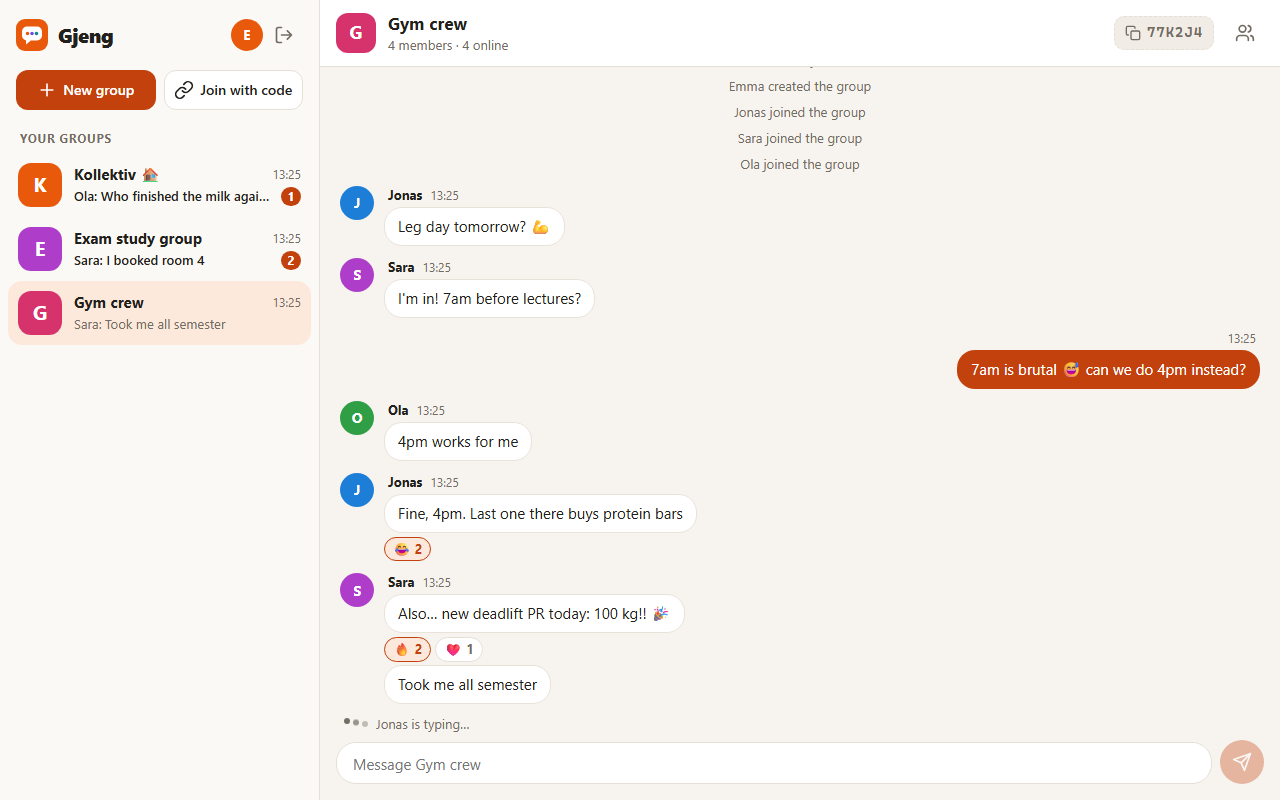
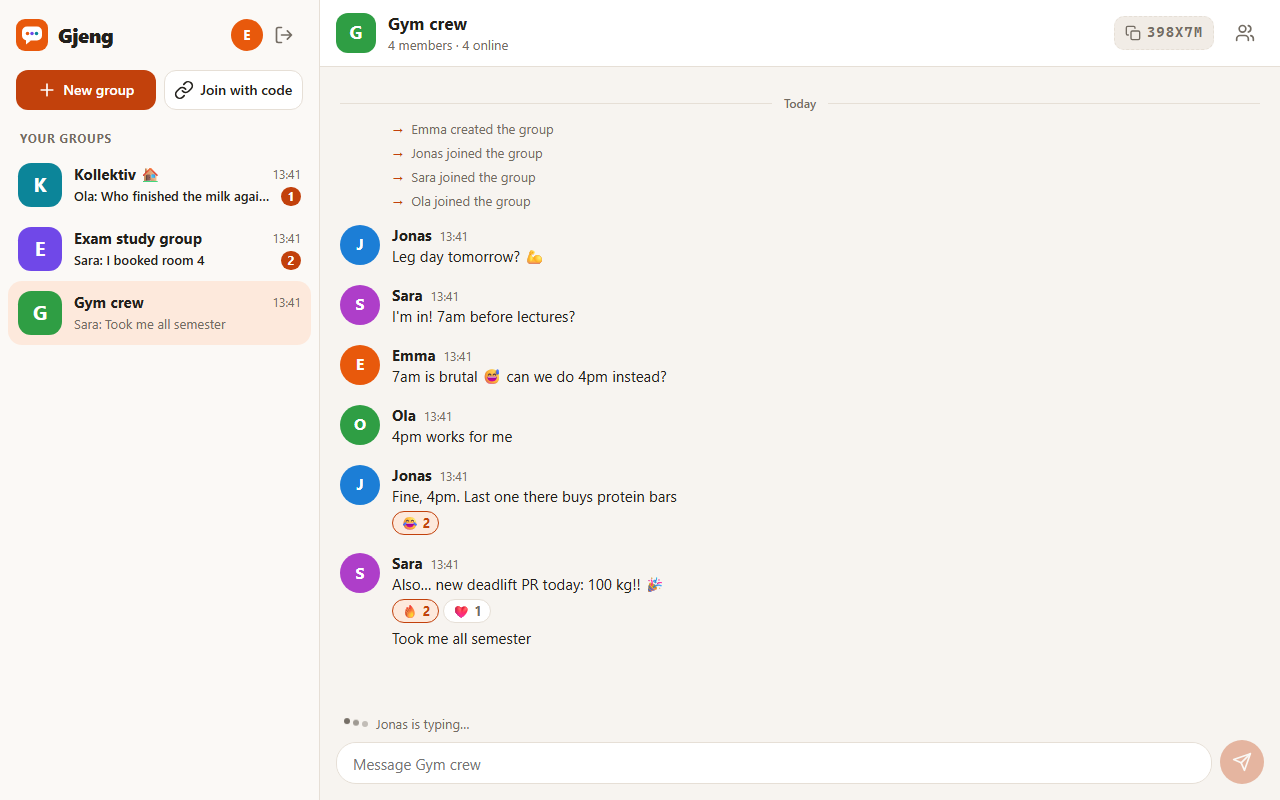
Show all messages on the left with picture, name and time
Messages used phone-style bubbles with your own on the right in orange.
Everyone's messages now sit on the left like Discord/Slack, and your own
show your name instead of "You" (also in the group list preview and
reaction tooltips). Follow-up messages are grouped under one name and
show their time on hover. Adds a browser test for the name change.

diff --git a/client/src/styles.css b/client/src/styles.css
@@ -14,8 +14,6 @@
   --accent-hover: #a8380a;
   --accent-soft: #fde9dc;
   --on-accent: #ffffff;
-  --bubble: #ffffff;
-  --bubble-border: #e9e2d9;
   --danger: #c92a2a;
   --danger-soft: #fdecec;
   --online: #2f9e44;
@@ -38,8 +36,6 @@
     --accent-hover: #ffa06e;
     --accent-soft: #3b2417;
     --on-accent: #1d0f06;
-    --bubble: #23252c;
-    --bubble-border: #2f323a;
     --danger: #ff6b6b;
     --danger-soft: #3a1c1c;
     --online: #51cf66;
@@ -591,84 +587,89 @@ legend {
 }
 
 .system-message {
-  margin: 8px 20px;
+  margin: 6px 0;
+  padding: 0 20px 0 72px;
   font-size: 13px;
   color: var(--muted);
-  text-align: center;
 }
 
+.system-message::before {
+  content: '→';
+  margin-right: 8px;
+  color: var(--accent);
+  font-weight: 700;
+}
+
+/* Everyone's messages sit on the left: picture, then name and time, then the text. */
 .message {
+  position: relative;
   display: flex;
-  gap: 10px;
-  margin-top: 12px;
-  padding: 0 20px;
+  gap: 12px;
+  margin-top: 10px;
+  padding: 4px 20px;
 }
 
 .message.continued {
-  margin-top: 3px;
+  margin-top: 0;
+  padding-top: 1px;
+  padding-bottom: 1px;
 }
 
-.message.mine {
-  justify-content: flex-end;
+.message:hover,
+.message.picking {
+  background: var(--hover);
 }
 
-.message-avatar {
-  width: 34px;
+.message-gutter {
+  display: flex;
+  justify-content: center;
+  width: 40px;
   flex: none;
 }
 
-.message-body {
-  display: flex;
-  flex-direction: column;
-  align-items: flex-start;
-  max-width: min(560px, 78%);
-  min-width: 0;
+/* Follow-up messages show their time in the gutter when you point at them. */
+.gutter-time {
+  padding-top: 3px;
+  font-size: 10px;
+  color: var(--muted);
+  white-space: nowrap;
+  opacity: 0;
 }
 
-.message.mine .message-body {
-  align-items: flex-end;
+.message:hover .gutter-time,
+.message.picking .gutter-time {
+  opacity: 1;
+}
+
+.message-body {
+  flex: 1;
+  min-width: 0;
 }
 
 .message-meta {
   display: flex;
   align-items: baseline;
   gap: 8px;
-  margin: 0 4px 3px;
   font-size: 12px;
   color: var(--muted);
 }
 
 .message-author {
-  font-size: 13px;
+  font-size: 15px;
   font-weight: 700;
   color: var(--text);
 }
 
-.bubble-row {
-  position: relative;
-  max-width: 100%;
-}
-
-.bubble {
-  padding: 8px 13px;
-  border: 1px solid var(--bubble-border);
-  border-radius: 18px;
-  background: var(--bubble);
+.message-text {
   overflow-wrap: anywhere;
   white-space: pre-wrap;
 }
 
-.message.mine .bubble {
-  border-color: transparent;
-  background: var(--accent);
-  color: var(--on-accent);
-}
-
-/* Sits beside the bubble (never on top of it), on the side with free space. */
+/* Floats over the top-right corner of the message you're pointing at, away from the text. */
 .reaction-picker {
   position: absolute;
-  top: 50%;
-  left: calc(100% + 6px);
+  top: -18px;
+  right: 20px;
   z-index: 2;
   display: flex;
   padding: 3px;
@@ -678,14 +679,8 @@ legend {
   box-shadow: var(--shadow);
   opacity: 0;
   pointer-events: none;
-  transform: translate(-4px, -50%);
+  transform: translateY(4px);
   transition: opacity 0.12s, transform 0.12s;
-}
-
-.message.mine .reaction-picker {
-  right: calc(100% + 6px);
-  left: auto;
-  transform: translate(4px, -50%);
 }
 
 /* :focus-visible so keyboard users can reach it, but it closes after a mouse click. */
@@ -694,7 +689,7 @@ legend {
 .message.picking .reaction-picker {
   opacity: 1;
   pointer-events: auto;
-  transform: translate(0, -50%);
+  transform: none;
 }
 
 .reaction-picker button {
@@ -735,12 +730,12 @@ legend {
   color: var(--muted);
 }
 
-.reaction.mine {
+.reaction.reacted {
   border-color: var(--accent);
   background: var(--accent-soft);
 }
 
-.reaction.mine span {
+.reaction.reacted span {
   color: var(--accent);
 }
 
@@ -1113,31 +1108,16 @@ legend {
   }
 
   .message {
-    padding: 0 12px;
+    padding-right: 12px;
+    padding-left: 12px;
   }
 
-  .message-body {
-    max-width: 85%;
+  .system-message {
+    padding: 0 12px 0 64px;
   }
 
-  /* No room beside the bubble on a phone, so the reactions pop up above it. */
-  .reaction-picker,
-  .message.mine .reaction-picker,
-  .message:hover .reaction-picker,
-  .message:has(:focus-visible) .reaction-picker,
-  .message.picking .reaction-picker {
-    top: auto;
-    bottom: calc(100% + 4px);
-    left: 0;
-    right: auto;
-    transform: none;
-  }
-
-  .message.mine .reaction-picker,
-  .message.mine:hover .reaction-picker,
-  .message.mine.picking .reaction-picker {
-    left: auto;
-    right: 0;
+  .reaction-picker {
+    right: 12px;
   }
 
   .members-panel {

diff --git a/client/src/components/MessageList.jsx b/client/src/components/MessageList.jsx
@@ -5,37 +5,35 @@ import { Avatar } from './Avatar.jsx';
 // Messages from the same person within this time are shown as one block.
 const GROUP_WINDOW_MS = 5 * 60 * 1000;
 
-function Message({ message, mine, continued, meId, nameOf, picking, onPick, onReact }) {
+// On touch screens there's no hover, so tapping a message opens the reaction bar instead.
+const isTouch = () => window.matchMedia('(hover: none)').matches;
+
+function Message({ message, continued, meId, nameOf, picking, onPick, onReact }) {
   const reactions = Object.entries(message.reactions ?? {});
+  const time = <time dateTime={new Date(message.ts).toISOString()}>{formatTime(message.ts)}</time>;
 
   return (
-    <div className={`message ${mine ? 'mine' : ''} ${continued ? 'continued' : ''} ${picking ? 'picking' : ''}`}>
-      {!mine && <div className="message-avatar">{!continued && <Avatar user={message} size={34} />}</div>}
+    <div
+      className={`message ${continued ? 'continued' : ''} ${picking ? 'picking' : ''}`}
+      onClick={(e) => !e.target.closest('button') && onPick()}
+    >
+      <div className="message-gutter">
+        {continued ? <span className="gutter-time">{time}</span> : <Avatar user={message} size={40} />}
+      </div>
       <div className="message-body">
         {!continued && (
           <div className="message-meta">
-            {!mine && <span className="message-author">{message.name}</span>}
-            <time dateTime={new Date(message.ts).toISOString()}>{formatTime(message.ts)}</time>
+            <span className="message-author">{message.name}</span>
+            {time}
           </div>
         )}
-        <div className="bubble-row">
-          <div className="bubble" onClick={onPick}>
-            {message.text}
-          </div>
-          <div className="reaction-picker" role="group" aria-label="Add a reaction">
-            {REACTIONS.map((emoji) => (
-              <button key={emoji} aria-label={`React with ${emoji}`} onClick={() => onReact(message.id, emoji)}>
-                {emoji}
-              </button>
-            ))}
-          </div>
-        </div>
+        <div className="message-text">{message.text}</div>
         {reactions.length > 0 && (
           <div className="reactions">
             {reactions.map(([emoji, userIds]) => (
               <button
                 key={emoji}
-                className={`reaction ${userIds.includes(meId) ? 'mine' : ''}`}
+                className={`reaction ${userIds.includes(meId) ? 'reacted' : ''}`}
                 title={userIds.map(nameOf).join(', ')}
                 aria-label={`${emoji} ${userIds.length}, by ${userIds.map(nameOf).join(', ')}`}
                 onClick={() => onReact(message.id, emoji)}
@@ -45,6 +43,13 @@ function Message({ message, mine, continued, meId, nameOf, picking, onPick, onRe
             ))}
           </div>
         )}
+      </div>
+      <div className="reaction-picker" role="group" aria-label="Add a reaction">
+        {REACTIONS.map((emoji) => (
+          <button key={emoji} aria-label={`React with ${emoji}`} onClick={() => onReact(message.id, emoji)}>
+            {emoji}
+          </button>
+        ))}
       </div>
     </div>
   );
@@ -74,7 +79,8 @@ export default function MessageList({ group, me, onReact, footer }) {
     stickToBottom.current = list.scrollHeight - list.scrollTop - list.clientHeight < 80;
   }
 
-  const names = Object.fromEntries(group.members.map((m) => [m.id, m.id === me.id ? 'You' : m.name]));
+  // Names for the reaction tooltips, including people who have since left the group.
+  const names = Object.fromEntries(group.members.map((m) => [m.id, m.name]));
   for (const m of messages) if (m.type === 'user' && !names[m.userId]) names[m.userId] = m.name;
   const nameOf = (id) => names[id] ?? 'Someone';
 
@@ -104,12 +110,11 @@ export default function MessageList({ group, me, onReact, footer }) {
         <Message
           key={message.id}
           message={message}
-          mine={message.userId === me.id}
           continued={continued}
           meId={me.id}
           nameOf={nameOf}
           picking={pickingId === message.id}
-          onPick={() => setPickingId((id) => (id === message.id ? null : message.id))}
+          onPick={() => isTouch() && setPickingId((id) => (id === message.id ? null : message.id))}
           onReact={(messageId, emoji) => {
             setPickingId(null);
             onReact(messageId, emoji);

diff --git a/e2e/chat.spec.js b/e2e/chat.spec.js
@@ -45,6 +45,11 @@ test('two people can chat in a group in real time', async ({ browser }) => {
   await expect(ada.getByText('Bo is typing…')).toBeVisible();
   await composer(bo).press('Enter');
   await expect(messages(ada).getByText('Leg day tomorrow?')).toBeVisible();
+
+  // Your own messages show your name like everyone else's, not "You".
+  const bosMessage = messages(bo).locator('.message', { hasText: 'Leg day tomorrow?' });
+  await expect(bosMessage.locator('.message-author')).toHaveText('Bo');
+  await expect(bo.getByRole('navigation', { name: 'Your groups' })).toContainText('Bo: Leg day tomorrow?');
   await expect(ada.getByText('Bo is typing…')).toBeHidden();
 
   await composer(ada).fill('Yes! 6pm');
@@ -58,7 +63,7 @@ test('two people can chat in a group in real time', async ({ browser }) => {
   await expect(ada.getByRole('button', { name: /🔥 1, by Bo/ })).toBeVisible();
 
   // Clicking your own reaction again removes it.
-  await adasMessage.getByRole('button', { name: /🔥 1, by You/ }).click();
+  await adasMessage.getByRole('button', { name: /🔥 1, by Bo/ }).click();
   await expect(ada.getByRole('button', { name: /🔥 1, by Bo/ })).toBeHidden();
 });
 

diff --git a/client/src/components/Sidebar.jsx b/client/src/components/Sidebar.jsx
@@ -3,11 +3,11 @@ import { Avatar, GroupAvatar } from './Avatar.jsx';
 import { LinkIcon, LogOutIcon, PlusIcon } from './Icons.jsx';
 import Logo from './Logo.jsx';
 
-function preview(group, meId) {
+function preview(group) {
   const last = group.messages.at(-1);
   if (!last) return 'No messages yet';
   if (last.type === 'system') return last.text;
-  return `${last.userId === meId ? 'You' : last.name}: ${last.text}`;
+  return `${last.name}: ${last.text}`;
 }
 
 export default function Sidebar({ me, groups, activeId, unread, onSelect, onNew, onJoin, onSignOut }) {
@@ -52,7 +52,7 @@ export default function Sidebar({ me, groups, activeId, unread, onSelect, onNew,
                   {last && <span className="group-item-time">{formatShort(last.ts)}</span>}
                 </span>
                 <span className="group-item-bottom">
-                  <span className="group-item-preview">{preview(group, me.id)}</span>
+                  <span className="group-item-preview">{preview(group)}</span>
                   {count > 0 && (
                     <span className="badge" aria-label={`${count} unread`}>
                       {count > 99 ? '99+' : count}

diff --git a/BUILD_LOG.md b/BUILD_LOG.md
@@ -33,6 +33,7 @@ Technology: React front end, Node.js server with Socket.IO for real-time updates
 
 - *"I think just a basic chat and group application could be better."*
 - *"I like the name Gjeng then! Lets get started."*
+- After trying the first version: *"I think the messages should not be shown left to right, as that fits a phone view more. It should instead be all to the left of the page and show the profile picture and name with their message under. So it should show your name instead of something like 'You' or a different colour."*
 
 From there the AI planned the structure, wrote the server, the chat logic, the React app and the styles, and wrote tests for all of it.
 
@@ -66,7 +67,22 @@ Problems handled before they happened:
 - **Phones on the same Wi-Fi use plain `http://`**, where browsers turn off `crypto.randomUUID()` and the clipboard API. The app uses fallbacks for both, so joining and copying invite codes work on phones too.
 - **No crashes if browser storage is blocked** (private mode), because every read and write of saved data is wrapped in error handling.
 
-## 6. What I'd add next
+## 6. Changes after trying it myself
+
+The first version showed messages like a phone chat: other people's messages on the left in white bubbles, and yours on the right in orange. Everyone's messages are now on the left, Discord/Slack style:
+
+- Each message has the person's profile picture, their **name** and the time, with the message underneath.
+- Your own messages look the same as everyone else's and show your name, not "You". This also applies to the group list preview and the reaction tooltips.
+- Several messages in a row from the same person are grouped under one name. Pointing at one shows its time.
+- The reaction bar now pops up in the top-right corner of the message instead of beside a bubble.
+
+A new browser test checks that your own messages show your name.
+
+| Before | After |
+| --- | --- |
+| Bubbles, your messages on the right in orange | Everyone on the left with picture and name |
+
+## 7. What I'd add next
 
 - Sending images
 - Proper accounts so you can log in on a new device
